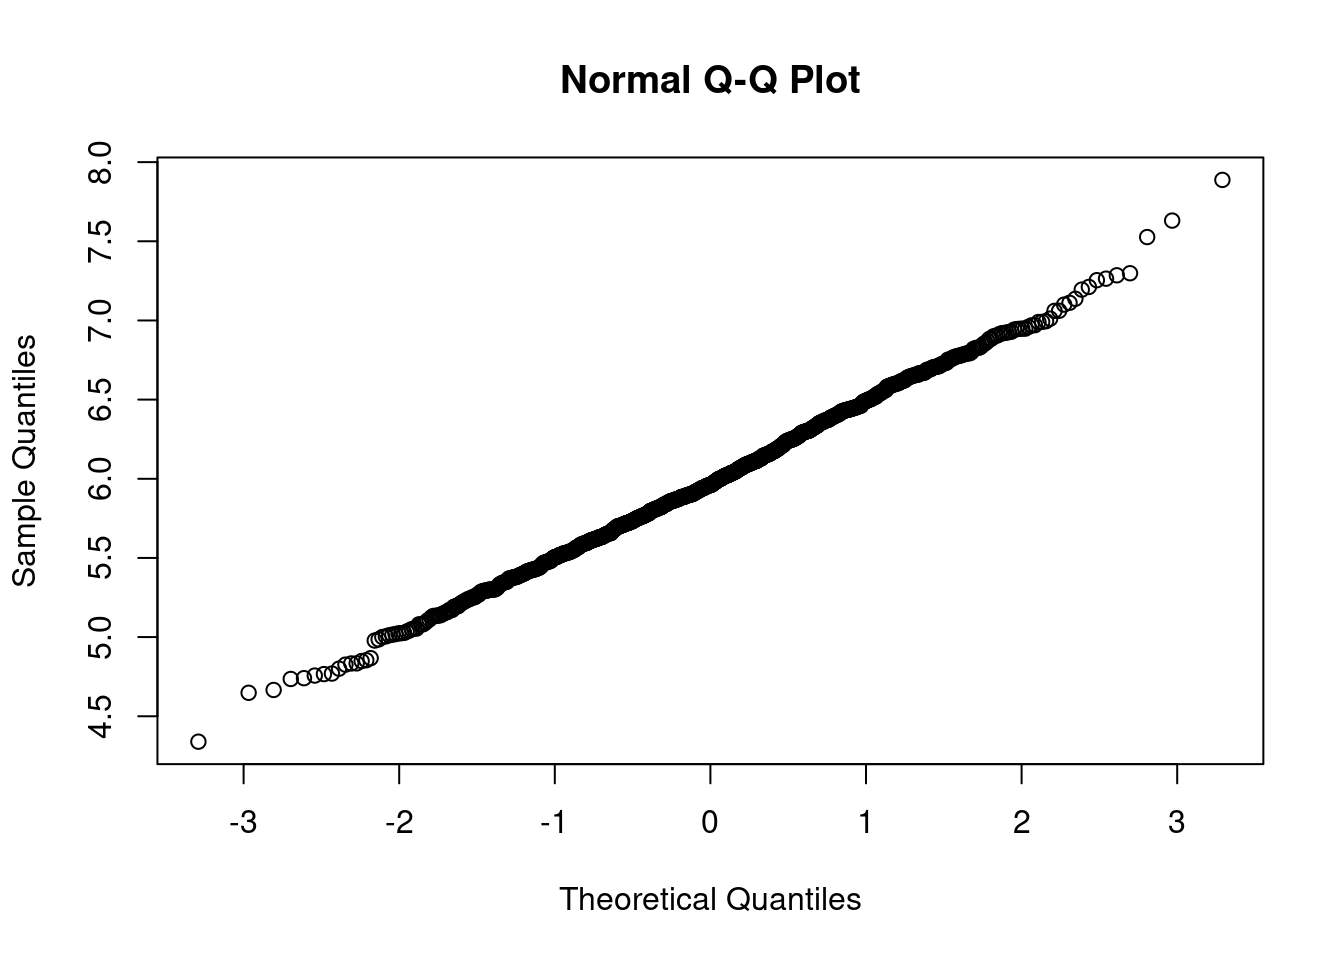
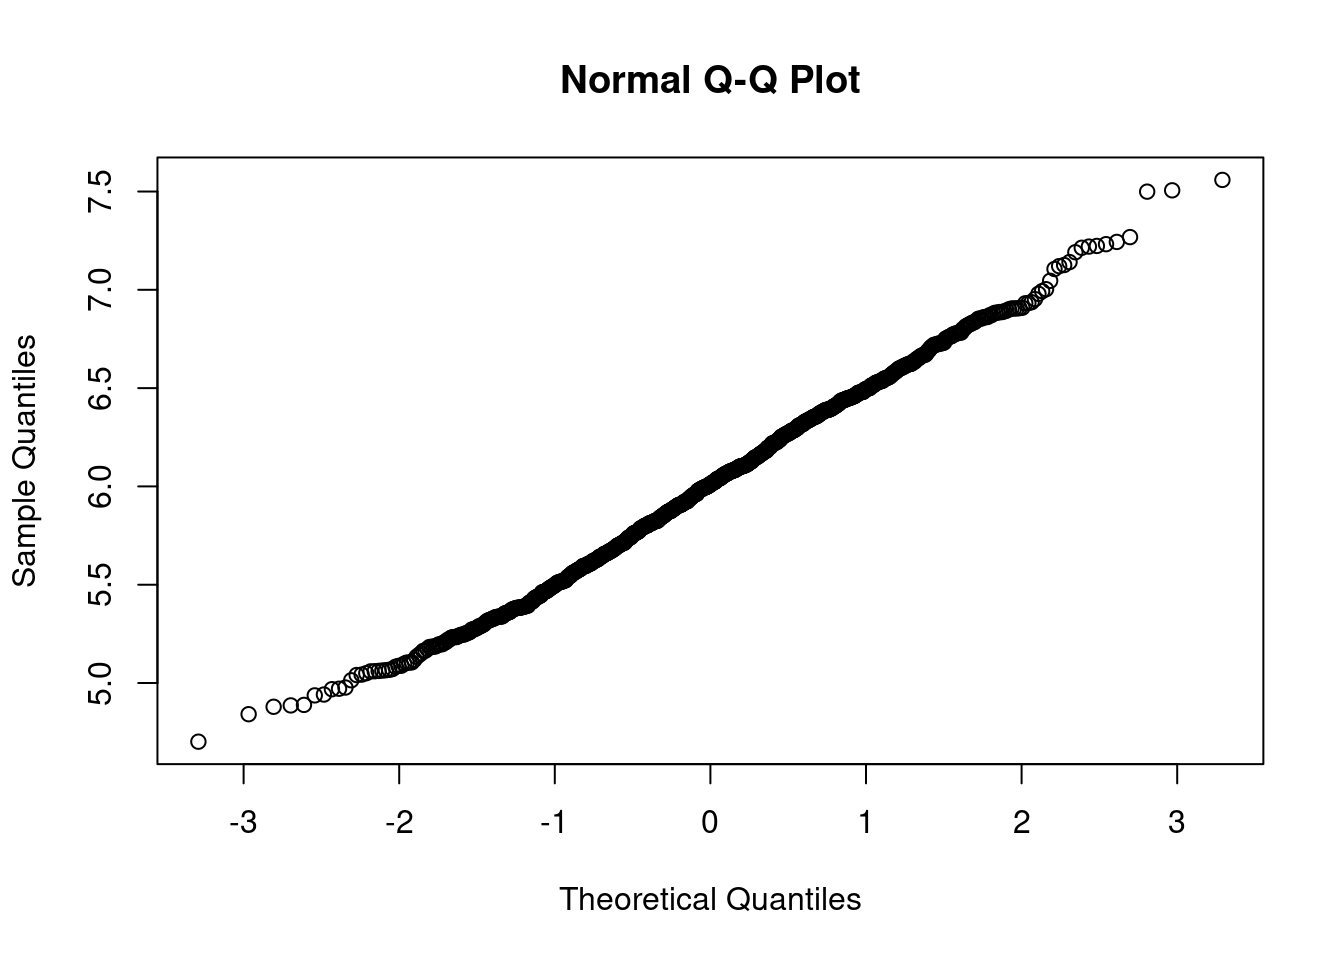
ajustes pagina simulacion 2

diff --git a/simulacion.html b/simulacion.html
@@ -774,7 +774,7 @@ data.frame(x,fx,Fx)        # construye tabla</code></pre>
 <li>Generar 15 números aleatorios a partir de esta distribución</li>
 </ol>
 <pre class="r"><code>rbinom(15,20,0.30)</code></pre>
-<pre><code>##  [1]  6  7  5  5  6  4  8  7  3  6  5 12 10  5  5</code></pre>
+<pre><code>##  [1] 6 7 4 3 6 6 8 7 4 9 4 6 4 4 6</code></pre>
 <p><br/></p>
 <ol start="5" style="list-style-type: decimal">
 <li>Construir la gráfica de la función de distribución de probabilidad <span class="math inline">\(f(x)\)</span> para <span class="math inline">\(X\)</span></li>
@@ -828,8 +828,8 @@ ggplot(dat) + geom_point(aes(x, fx),colour = &quot;orange&quot;, size = 4) +
 <li>Genere 10 números aleatorios de la variables <span class="math inline">\(X\)</span></li>
 </ol>
 <pre class="r"><code>rnorm(10,70,sqrt(100))</code></pre>
-<pre><code>##  [1] 57.07296 69.44587 52.43551 65.29131 73.43187 68.31509 79.93121 61.57208
-##  [9] 83.45906 72.99304</code></pre>
+<pre><code>##  [1] 71.58359 76.76058 63.90901 76.96539 65.49259 76.18879 67.52276 58.35370
+##  [9] 83.19138 82.46038</code></pre>
 <p><br/></p>
 <ol start="4" style="list-style-type: decimal">
 <li>Generar la gráfica de la función de densidad de la variable <span class="math inline">\(X\)</span>, <span class="math inline">\(f(x)\)</span></li>
@@ -855,7 +855,7 @@ ylab=&quot;f(x)&quot;)</code></pre>
 library(ggfortify)
 ggdistribution(pnorm, seq(-4, 4, 0.1), mean = 0, sd = 1)</code></pre>
 <p><img src="simulacion_files/figure-html/unnamed-chunk-15-1.png" width="672" /> <br/></p>
-<p>Por otro lado el proceso de simulación de variables estadisticas esta relacionado con los experimentos llamados de Montecarlo, a continuación se describe brevemente su origen.</p>
+<p>Por otro lado el proceso de simulación de variables estadísticas esta relacionado con los experimentos llamados de Montecarlo, a continuación se describe brevemente su origen.</p>
 <p><br/><br/><br/></p>
 </div>
 </div>
@@ -897,19 +897,19 @@ ggdistribution(pnorm, seq(-4, 4, 0.1), mean = 0, sd = 1)</code></pre>
 ## 
 ##                       value
 ## ----------------- ---------
-##              Mean      5.99
-##           Std.Dev      0.49
-##               Min      4.34
-##                Q1      5.64
-##            Median      5.96
-##                Q3      6.33
-##               Max      7.89
-##               MAD      0.50
-##               IQR      0.68
+##              Mean      6.01
+##           Std.Dev      0.48
+##               Min      4.70
+##                Q1      5.66
+##            Median      6.01
+##                Q3      6.35
+##               Max      7.56
+##               MAD      0.52
+##               IQR      0.70
 ##                CV      0.08
-##          Skewness      0.08
+##          Skewness      0.09
 ##       SE.Skewness      0.08
-##          Kurtosis      0.03
+##          Kurtosis     -0.33
 ##           N.Valid   1000.00
 ##         Pct.Valid    100.00</code></pre>
 </div>
